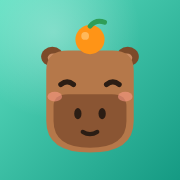
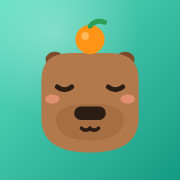
Site principal: capivara redesenhada e já escolhida
Claude-Session: https://claude.ai/code/session_017XzR5RWQPSYUH6UPubdo7U

Changed region(s): [[0.2222, 0.25, 0.7778, 0.8611]]

diff --git a/index.html b/index.html
@@ -2180,7 +2180,7 @@ button:focus-visible, a:focus-visible, [role="button"]:focus-visible, [tabindex]
   const eyes = (y = 38, dx = 8) => `<circle cx="${32 - dx}" cy="${y}" r="2.6" fill="${K}"/><circle cx="${32 + dx}" cy="${y}" r="2.6" fill="${K}"/>`;
   const blush = (y = 43, dx = 13, c = '#ff8fab') => `<ellipse cx="${32 - dx}" cy="${y}" rx="3.4" ry="2.2" fill="${c}" opacity=".7"/><ellipse cx="${32 + dx}" cy="${y}" rx="3.4" ry="2.2" fill="${c}" opacity=".7"/>`;
   const AVATARS = {
-    capivara: { name: 'Capivara', bg: '#d6f5ec', say: 'De boa…', svg: `<g class="ear"><ellipse cx="16.5" cy="16.5" rx="4.6" ry="4" fill="#7c4b2a"/><ellipse cx="47.5" cy="16.5" rx="4.6" ry="4" fill="#7c4b2a"/><ellipse cx="16.8" cy="17" rx="2.2" ry="1.8" fill="#c98b62"/><ellipse cx="47.2" cy="17" rx="2.2" ry="1.8" fill="#c98b62"/></g><g class="cb"><path d="M14 22q0-8 9-8h18q9 0 9 8v21q0 13-18 13T14 43z" fill="#b5784a"/><path d="M17 37q0-5 6-5h18q6 0 6 5v6q0 11-15 11T17 43z" fill="#8a5533"/><path class="lid" d="M20 28q2.6-2.2 5.2 0M38.8 28q2.6-2.2 5.2 0" fill="none" stroke="${K}" stroke-width="2.1" stroke-linecap="round"/><ellipse cx="27" cy="40" rx="1.5" ry="2.3" fill="${K}"/><ellipse cx="37" cy="40" rx="1.5" ry="2.3" fill="${K}"/><path d="M29 47.5q3 1.8 6 0" fill="none" stroke="${K}" stroke-width="1.7" stroke-linecap="round"/><ellipse class="bl" cx="17.5" cy="33" rx="3" ry="2" fill="#ff9d8a" opacity=".55"/><ellipse class="bl" cx="46.5" cy="33" rx="3" ry="2" fill="#ff9d8a" opacity=".55"/></g><g class="fruit"><circle cx="32" cy="9.5" r="6" fill="#ff9416"/><circle cx="30" cy="8" r="1.6" fill="#ffc06b" opacity=".8"/><path d="M32 4q2.5-3 6-1.6" fill="none" stroke="#2f9e57" stroke-width="2" stroke-linecap="round"/></g>` },
+    capivara: { name: 'Capivara', bg: '#d6f5ec', say: 'De boa…', svg: `<g class="ear"><ellipse cx="17.5" cy="17.8" rx="3.8" ry="3.3" fill="#7c4b2a"/><ellipse cx="46.5" cy="17.8" rx="3.8" ry="3.3" fill="#7c4b2a"/></g><g class="cb"><path d="M12 26q0-11 12-11h16q12 0 12 11v16q0 14-20 14T12 42z" fill="#b27a4c"/><path d="M18 42q0-6 14-6t14 6q0 9-14 9t-14-9z" fill="#9c663d" opacity=".55"/><path class="lid" d="M18.5 29q3 2.4 6 0M39.5 29q3 2.4 6 0" fill="none" stroke="${K}" stroke-width="2" stroke-linecap="round"/><rect x="25.5" y="37" width="13" height="5.6" rx="2.8" fill="${K}"/><path d="M28.5 46q1.75 1.6 3.5 0q1.75 1.6 3.5 0" fill="none" stroke="${K}" stroke-width="1.5" stroke-linecap="round"/><ellipse class="bl" cx="16.5" cy="34" rx="3" ry="1.9" fill="#ff9d8a" opacity=".6"/><ellipse class="bl" cx="47.5" cy="34" rx="3" ry="1.9" fill="#ff9d8a" opacity=".6"/></g><g class="fruit"><circle cx="32" cy="9.5" r="6" fill="#ff9416"/><circle cx="30" cy="8" r="1.6" fill="#ffc06b" opacity=".8"/><path d="M32 4q2.5-3 6-1.6" fill="none" stroke="#2f9e57" stroke-width="2" stroke-linecap="round"/></g>` },
     gato: { name: 'Gato', bg: '#ffe7b3', say: 'Miau!', svg: `<g class="ear"><path d="M14 26 17 10 27 19M50 26 47 10 37 19" fill="#ffb020"/><path d="M18 15 19.5 22M46 15 44.5 22" stroke="#ff8a3d" stroke-width="2.4" stroke-linecap="round"/></g><circle cx="32" cy="36" r="19" fill="#ffb020"/>${eyes(35)}${blush(41)}<path d="M30 41h4l-2 2.2z" fill="#ff6f91"/><path d="M28.5 45q3.5 2.6 7 0" fill="none" stroke="${K}" stroke-width="1.8" stroke-linecap="round"/><path d="M12 39h8M12 43l8-1M52 39h-8M52 43l-8-1" stroke="${K}" stroke-width="1.3" stroke-linecap="round" opacity=".55"/>` },
     coelho: { name: 'Coelho', bg: '#ffd9e8', say: 'Hop hop!', svg: `<g class="ear el"><ellipse cx="24" cy="14" rx="5.5" ry="13" fill="#fff"/><ellipse cx="24" cy="15" rx="2.6" ry="9" fill="#ffadc8"/></g><g class="ear er"><ellipse cx="40" cy="14" rx="5.5" ry="13" fill="#fff"/><ellipse cx="40" cy="15" rx="2.6" ry="9" fill="#ffadc8"/></g><circle cx="32" cy="38" r="18" fill="#fff"/>${eyes(37)}${blush(42)}<ellipse cx="32" cy="42" rx="2.4" ry="1.7" fill="#ff7aa2"/><path d="M29 45.5q3 2.2 6 0" fill="none" stroke="${K}" stroke-width="1.7" stroke-linecap="round"/>` },
     urso: { name: 'Urso', bg: '#f1e2d1', say: 'Grrr… abraço!', svg: `<circle cx="17" cy="21" r="7" fill="#a86f45"/><circle cx="47" cy="21" r="7" fill="#a86f45"/><circle cx="17" cy="21" r="3.4" fill="#e3b78f"/><circle cx="47" cy="21" r="3.4" fill="#e3b78f"/><circle cx="32" cy="36" r="19" fill="#a86f45"/><ellipse cx="32" cy="43" rx="9" ry="7" fill="#e3b78f"/>${eyes(33)}<ellipse cx="32" cy="40.5" rx="3.2" ry="2.3" fill="${K}"/><path d="M29 45q3 2.4 6 0" fill="none" stroke="${K}" stroke-width="1.7" stroke-linecap="round"/>` },
@@ -6453,7 +6453,7 @@ button:focus-visible, a:focus-visible, [role="button"]:focus-visible, [tabindex]
     const d = { name: account?.fullName || '', nick: account?.nick || '', fam: familyOn(), members: members().filter(x => x.id !== meId()).map(x => x.name),
       av: account?.av || member(meId())?.av || '', mav: Object.fromEntries(members().map(x => [x.name, x.av])) };
     let avTouched = !!d.av, ppIdx = -1;
-    const myAv = () => avFor(d.av, d.name);
+    const myAv = () => AVATARS[d.av] ? d.av : 'capivara';   // a Capi já vem escolhida (é a primeira da lista)
     const memAv = n => avFor(d.mav[n], n);
     let nickTouched = !!d.nick, i = 0, timers = [];
     const nickOf = () => d.nick || firstName(d.name) || 'você';

diff --git a/preview.html b/preview.html
@@ -2180,7 +2180,7 @@ button:focus-visible, a:focus-visible, [role="button"]:focus-visible, [tabindex]
   const eyes = (y = 38, dx = 8) => `<circle cx="${32 - dx}" cy="${y}" r="2.6" fill="${K}"/><circle cx="${32 + dx}" cy="${y}" r="2.6" fill="${K}"/>`;
   const blush = (y = 43, dx = 13, c = '#ff8fab') => `<ellipse cx="${32 - dx}" cy="${y}" rx="3.4" ry="2.2" fill="${c}" opacity=".7"/><ellipse cx="${32 + dx}" cy="${y}" rx="3.4" ry="2.2" fill="${c}" opacity=".7"/>`;
   const AVATARS = {
-    capivara: { name: 'Capivara', bg: '#d6f5ec', say: 'De boa…', svg: `<g class="ear"><ellipse cx="16.5" cy="16.5" rx="4.6" ry="4" fill="#7c4b2a"/><ellipse cx="47.5" cy="16.5" rx="4.6" ry="4" fill="#7c4b2a"/><ellipse cx="16.8" cy="17" rx="2.2" ry="1.8" fill="#c98b62"/><ellipse cx="47.2" cy="17" rx="2.2" ry="1.8" fill="#c98b62"/></g><g class="cb"><path d="M14 22q0-8 9-8h18q9 0 9 8v21q0 13-18 13T14 43z" fill="#b5784a"/><path d="M17 37q0-5 6-5h18q6 0 6 5v6q0 11-15 11T17 43z" fill="#8a5533"/><path class="lid" d="M20 28q2.6-2.2 5.2 0M38.8 28q2.6-2.2 5.2 0" fill="none" stroke="${K}" stroke-width="2.1" stroke-linecap="round"/><ellipse cx="27" cy="40" rx="1.5" ry="2.3" fill="${K}"/><ellipse cx="37" cy="40" rx="1.5" ry="2.3" fill="${K}"/><path d="M29 47.5q3 1.8 6 0" fill="none" stroke="${K}" stroke-width="1.7" stroke-linecap="round"/><ellipse class="bl" cx="17.5" cy="33" rx="3" ry="2" fill="#ff9d8a" opacity=".55"/><ellipse class="bl" cx="46.5" cy="33" rx="3" ry="2" fill="#ff9d8a" opacity=".55"/></g><g class="fruit"><circle cx="32" cy="9.5" r="6" fill="#ff9416"/><circle cx="30" cy="8" r="1.6" fill="#ffc06b" opacity=".8"/><path d="M32 4q2.5-3 6-1.6" fill="none" stroke="#2f9e57" stroke-width="2" stroke-linecap="round"/></g>` },
+    capivara: { name: 'Capivara', bg: '#d6f5ec', say: 'De boa…', svg: `<g class="ear"><ellipse cx="17.5" cy="17.8" rx="3.8" ry="3.3" fill="#7c4b2a"/><ellipse cx="46.5" cy="17.8" rx="3.8" ry="3.3" fill="#7c4b2a"/></g><g class="cb"><path d="M12 26q0-11 12-11h16q12 0 12 11v16q0 14-20 14T12 42z" fill="#b27a4c"/><path d="M18 42q0-6 14-6t14 6q0 9-14 9t-14-9z" fill="#9c663d" opacity=".55"/><path class="lid" d="M18.5 29q3 2.4 6 0M39.5 29q3 2.4 6 0" fill="none" stroke="${K}" stroke-width="2" stroke-linecap="round"/><rect x="25.5" y="37" width="13" height="5.6" rx="2.8" fill="${K}"/><path d="M28.5 46q1.75 1.6 3.5 0q1.75 1.6 3.5 0" fill="none" stroke="${K}" stroke-width="1.5" stroke-linecap="round"/><ellipse class="bl" cx="16.5" cy="34" rx="3" ry="1.9" fill="#ff9d8a" opacity=".6"/><ellipse class="bl" cx="47.5" cy="34" rx="3" ry="1.9" fill="#ff9d8a" opacity=".6"/></g><g class="fruit"><circle cx="32" cy="9.5" r="6" fill="#ff9416"/><circle cx="30" cy="8" r="1.6" fill="#ffc06b" opacity=".8"/><path d="M32 4q2.5-3 6-1.6" fill="none" stroke="#2f9e57" stroke-width="2" stroke-linecap="round"/></g>` },
     gato: { name: 'Gato', bg: '#ffe7b3', say: 'Miau!', svg: `<g class="ear"><path d="M14 26 17 10 27 19M50 26 47 10 37 19" fill="#ffb020"/><path d="M18 15 19.5 22M46 15 44.5 22" stroke="#ff8a3d" stroke-width="2.4" stroke-linecap="round"/></g><circle cx="32" cy="36" r="19" fill="#ffb020"/>${eyes(35)}${blush(41)}<path d="M30 41h4l-2 2.2z" fill="#ff6f91"/><path d="M28.5 45q3.5 2.6 7 0" fill="none" stroke="${K}" stroke-width="1.8" stroke-linecap="round"/><path d="M12 39h8M12 43l8-1M52 39h-8M52 43l-8-1" stroke="${K}" stroke-width="1.3" stroke-linecap="round" opacity=".55"/>` },
     coelho: { name: 'Coelho', bg: '#ffd9e8', say: 'Hop hop!', svg: `<g class="ear el"><ellipse cx="24" cy="14" rx="5.5" ry="13" fill="#fff"/><ellipse cx="24" cy="15" rx="2.6" ry="9" fill="#ffadc8"/></g><g class="ear er"><ellipse cx="40" cy="14" rx="5.5" ry="13" fill="#fff"/><ellipse cx="40" cy="15" rx="2.6" ry="9" fill="#ffadc8"/></g><circle cx="32" cy="38" r="18" fill="#fff"/>${eyes(37)}${blush(42)}<ellipse cx="32" cy="42" rx="2.4" ry="1.7" fill="#ff7aa2"/><path d="M29 45.5q3 2.2 6 0" fill="none" stroke="${K}" stroke-width="1.7" stroke-linecap="round"/>` },
     urso: { name: 'Urso', bg: '#f1e2d1', say: 'Grrr… abraço!', svg: `<circle cx="17" cy="21" r="7" fill="#a86f45"/><circle cx="47" cy="21" r="7" fill="#a86f45"/><circle cx="17" cy="21" r="3.4" fill="#e3b78f"/><circle cx="47" cy="21" r="3.4" fill="#e3b78f"/><circle cx="32" cy="36" r="19" fill="#a86f45"/><ellipse cx="32" cy="43" rx="9" ry="7" fill="#e3b78f"/>${eyes(33)}<ellipse cx="32" cy="40.5" rx="3.2" ry="2.3" fill="${K}"/><path d="M29 45q3 2.4 6 0" fill="none" stroke="${K}" stroke-width="1.7" stroke-linecap="round"/>` },
@@ -6453,7 +6453,7 @@ button:focus-visible, a:focus-visible, [role="button"]:focus-visible, [tabindex]
     const d = { name: account?.fullName || '', nick: account?.nick || '', fam: familyOn(), members: members().filter(x => x.id !== meId()).map(x => x.name),
       av: account?.av || member(meId())?.av || '', mav: Object.fromEntries(members().map(x => [x.name, x.av])) };
     let avTouched = !!d.av, ppIdx = -1;
-    const myAv = () => avFor(d.av, d.name);
+    const myAv = () => AVATARS[d.av] ? d.av : 'capivara';   // a Capi já vem escolhida (é a primeira da lista)
     const memAv = n => avFor(d.mav[n], n);
     let nickTouched = !!d.nick, i = 0, timers = [];
     const nickOf = () => d.nick || firstName(d.name) || 'você';

diff --git a/sw.js b/sw.js
@@ -1,6 +1,6 @@
 // Service worker: guarda o app no aparelho para abrir sem internet.
 // Página: tenta a rede primeiro (pega atualizações) e cai no que está guardado se estiver offline.
-const CACHE = 'orcamento-v8';
+const CACHE = 'orcamento-v9';
 const FILES = ['./', './index.html', './manifest.webmanifest', './favicon.svg', './icon-192.png', './icon-512.png', './icon-maskable-512.png', './apple-touch-icon.png'];
 
 self.addEventListener('install', e => {
